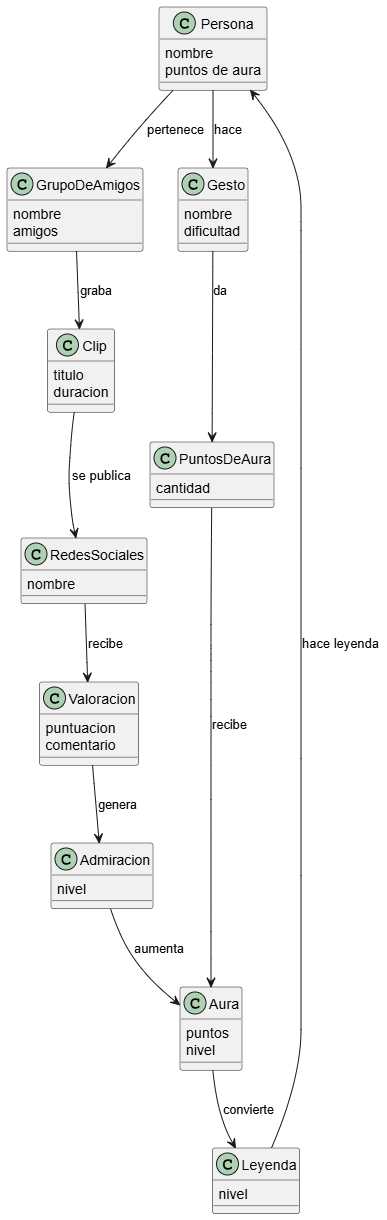
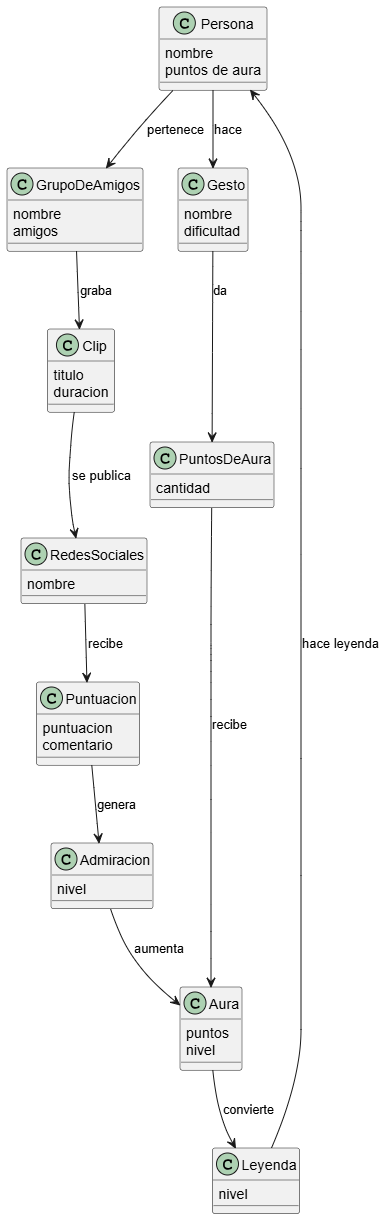
Correccion de Vocabulario de los diagramas y enlaces

Changed region(s): [[0.093, 0.4984, 0.3721, 0.6541], [0.2481, 0.6541, 0.3411, 0.6852]]

diff --git a/entregas/cuestaAlejandra/README.md b/entregas/cuestaAlejandra/README.md
@@ -21,3 +21,31 @@
 ## IMAGEN CASERA:
 
 - [Imagen](https://github.com/Alejandracuesta/26-27-idsw1-AC/blob/entrega-001/entregas/cuestaAlejandra/images/imagenCasera.png)
+
+## VERSION 1:
+
+- [Código de Diagrama de Clases](https://github.com/Alejandracuesta/26-27-idsw1-AC/blob/entrega-001/entregas/cuestaAlejandra/modelosUML/version1/diagramaclase.puml)
+- [Código de Diagrama de Colaboración](https://github.com/Alejandracuesta/26-27-idsw1-AC/blob/entrega-001/entregas/cuestaAlejandra/modelosUML/version1/diagramacolaboracion.puml)
+ [Código de Diagrama de Estados](https://github.com/Alejandracuesta/26-27-idsw1-AC/blob/entrega-001/entregas/cuestaAlejandra/modelosUML/version1/diagramaestados.puml)
+- [Imágenes](https://github.com/Alejandracuesta/26-27-idsw1-AC/tree/entrega-001/entregas/cuestaAlejandra/modelosUML/version1/images)
+
+ ## VERSION 2:
+
+- [Código de Diagrama de Clases](https://github.com/Alejandracuesta/26-27-idsw1-AC/blob/entrega-001/entregas/cuestaAlejandra/modelosUML/version2/diagramaclase.puml)
+- [Código de Diagrama de Colaboración](https://github.com/Alejandracuesta/26-27-idsw1-AC/blob/entrega-001/entregas/cuestaAlejandra/modelosUML/version2/diagramacolaboracion.puml)
+- [Código de Diagrama de Estados](https://github.com/Alejandracuesta/26-27-idsw1-AC/blob/entrega-001/entregas/cuestaAlejandra/modelosUML/version2/diagramaestados.puml)
+- [Imágenes](https://github.com/Alejandracuesta/26-27-idsw1-AC/tree/entrega-001/entregas/cuestaAlejandra/modelosUML/version2/images)
+
+ ## VERSION 3:
+
+- [Código de Diagrama de Clases](https://github.com/Alejandracuesta/26-27-idsw1-AC/blob/entrega-001/entregas/cuestaAlejandra/modelosUML/version3/diagramaclase.puml)
+- [Código de Diagrama de Colaboración](https://github.com/Alejandracuesta/26-27-idsw1-AC/blob/entrega-001/entregas/cuestaAlejandra/modelosUML/version3/diagramacolaboracion.puml)
+- [Código de Diagrama de Estados](https://github.com/Alejandracuesta/26-27-idsw1-AC/blob/entrega-001/entregas/cuestaAlejandra/modelosUML/version3/diagramaestados.puml)
+- [Imágenes](https://github.com/Alejandracuesta/26-27-idsw1-AC/tree/entrega-001/entregas/cuestaAlejandra/modelosUML/version3/images)
+
+ ## VERSION 4:
+
+- [Código de Diagrama de Clases](https://github.com/Alejandracuesta/26-27-idsw1-AC/blob/entrega-001/entregas/cuestaAlejandra/modelosUML/version4/diagramaclase.puml)
+- [Código de Diagrama de Colaboración](https://github.com/Alejandracuesta/26-27-idsw1-AC/blob/entrega-001/entregas/cuestaAlejandra/modelosUML/version4/diagramacolaboracion.puml)
+- [Código de Diagrama de Estados](https://github.com/Alejandracuesta/26-27-idsw1-AC/blob/entrega-001/entregas/cuestaAlejandra/modelosUML/version4/diagramaestados.puml)
+- [Imágenes](https://github.com/Alejandracuesta/26-27-idsw1-AC/tree/entrega-001/entregas/cuestaAlejandra/modelosUML/version4/images)
